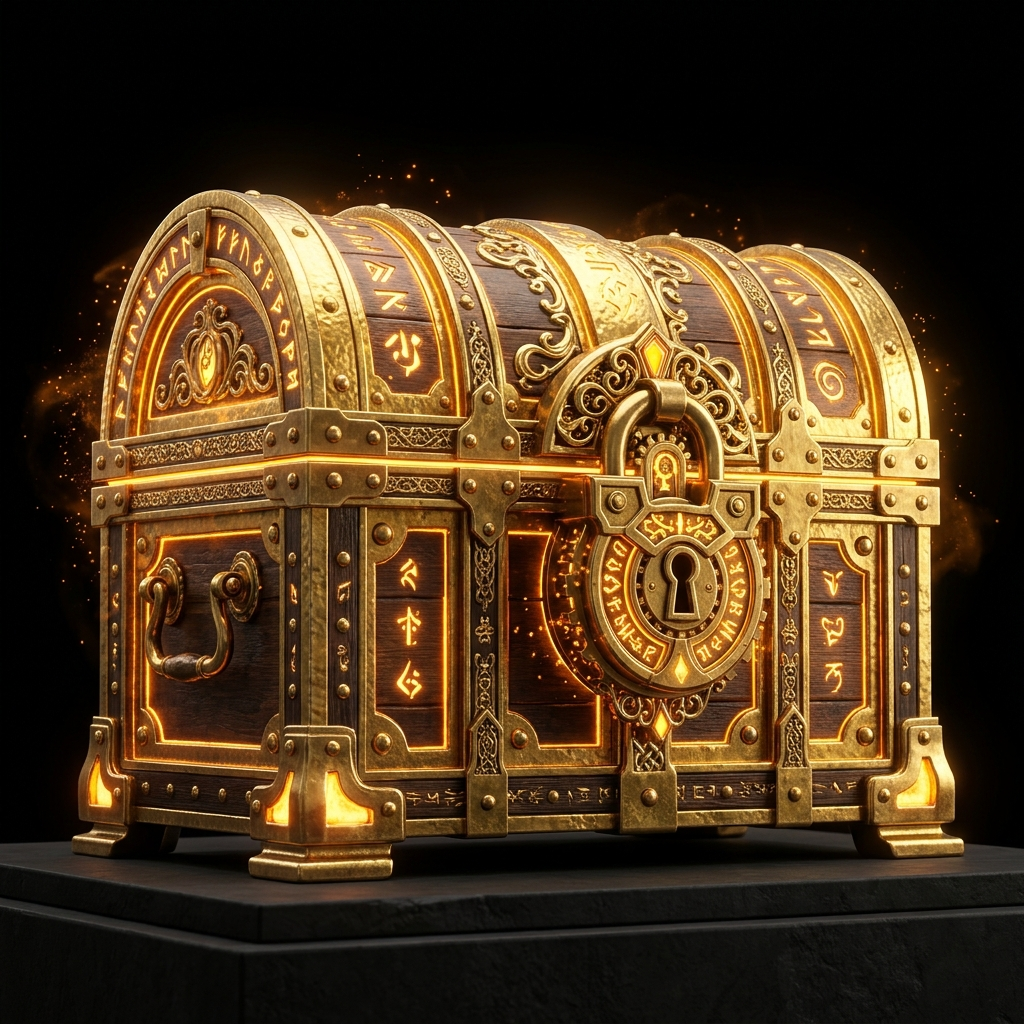
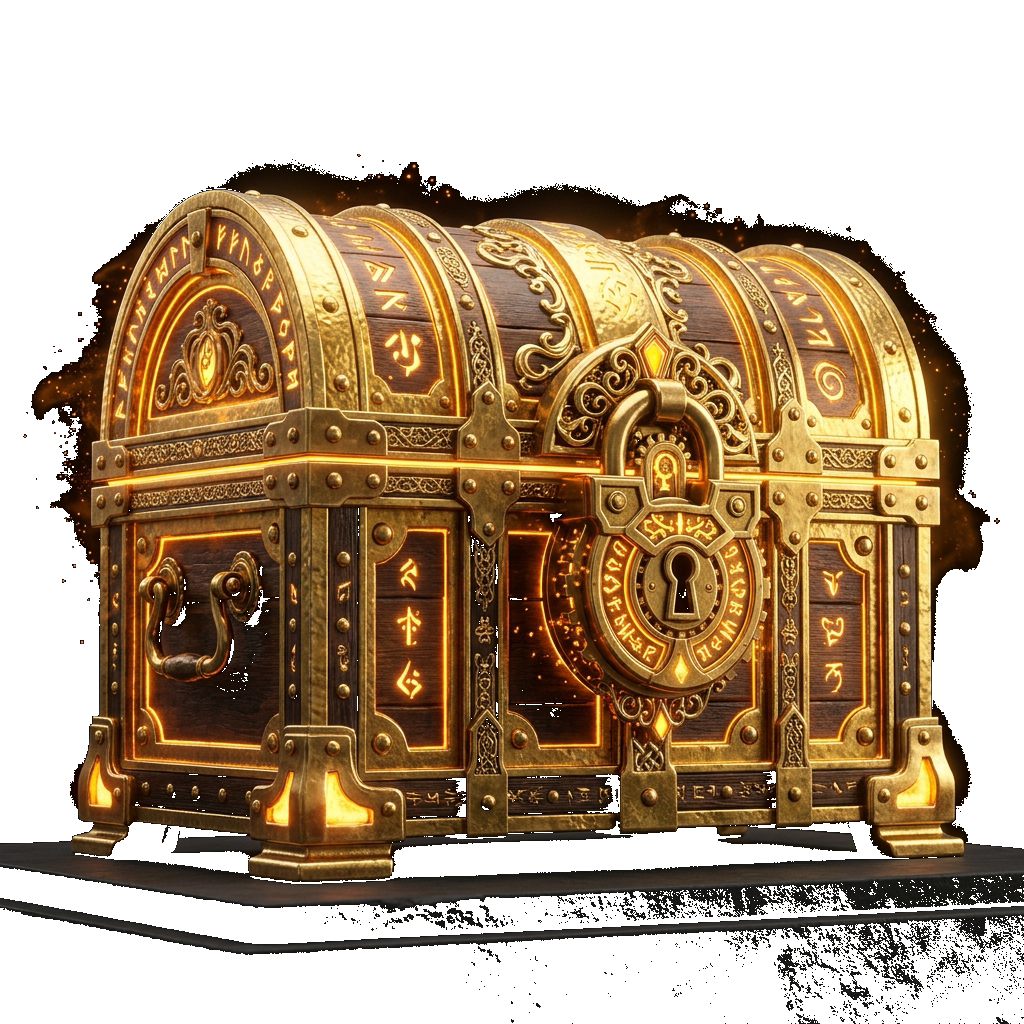
design(rewards): natively remove black background from closed and open chest PNG assets

diff --git a/src/app/rewards/reward-box/page.js b/src/app/rewards/reward-box/page.js
@@ -323,7 +323,7 @@ export default function RewardBoxPage() {
                         <img 
                             src="/chest-open.png" 
                             alt="Open Golden Chest" 
-                            className="w-64 h-64 object-contain drop-shadow-[0_20px_50px_rgba(245,158,11,0.5)] z-20 mix-blend-screen"
+                            className="w-64 h-64 object-contain drop-shadow-[0_20px_50px_rgba(245,158,11,0.5)] z-20"
                         />
                     </div>
                 ) : (
@@ -333,7 +333,7 @@ export default function RewardBoxPage() {
                         <img 
                             src="/chest-closed.png" 
                             alt="Closed Golden Chest" 
-                            className="w-64 h-64 object-contain drop-shadow-[0_20px_40px_rgba(245,158,11,0.35)] z-20 animate-pulse mix-blend-screen"
+                            className="w-64 h-64 object-contain drop-shadow-[0_20px_40px_rgba(245,158,11,0.35)] z-20 animate-pulse"
                         />
                     </div>
                 )}